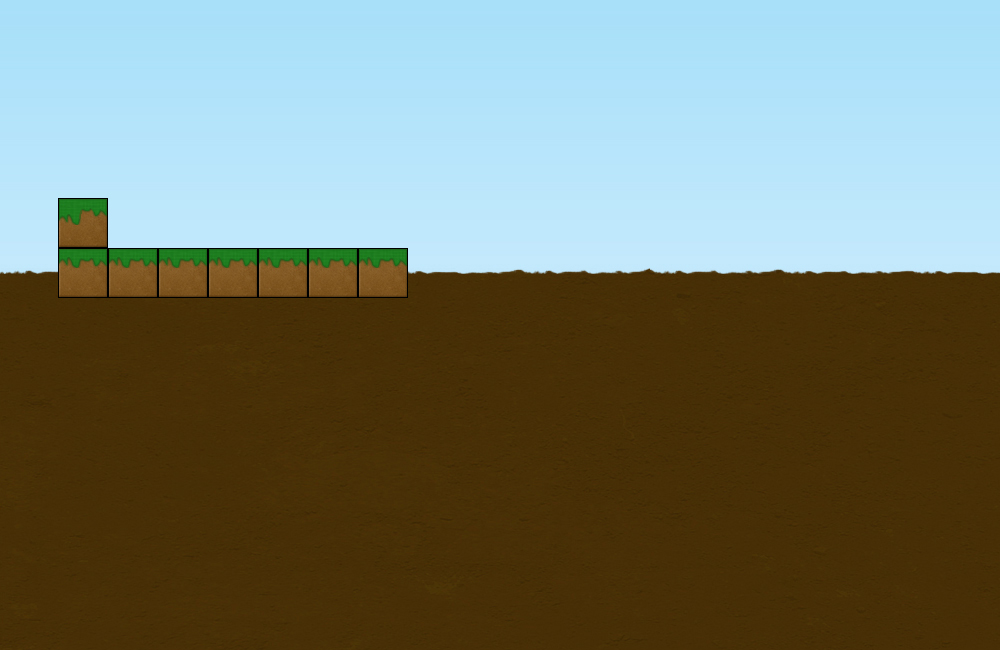
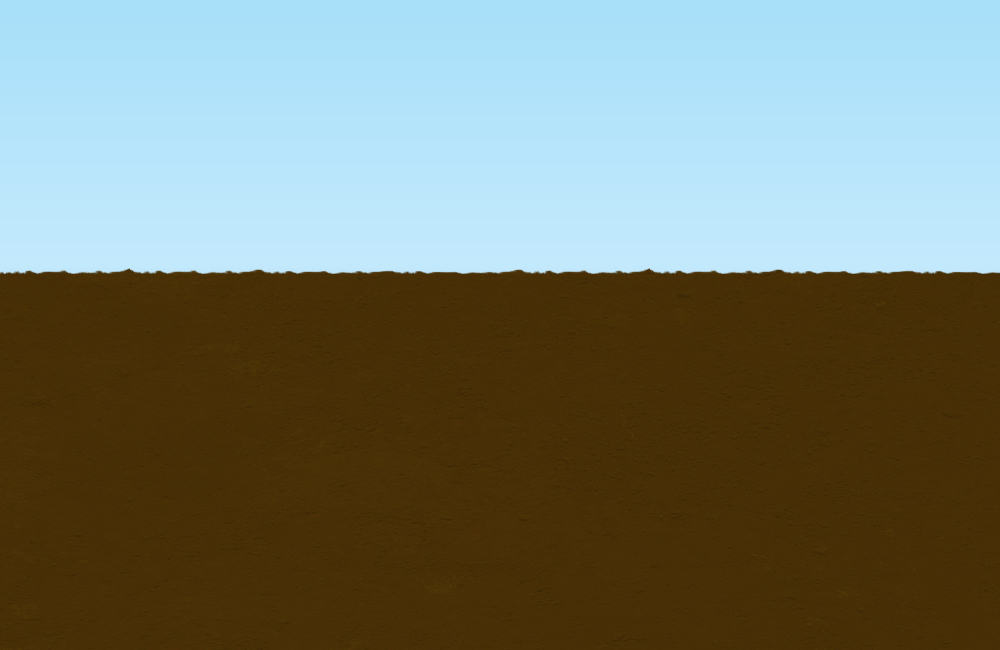
petit fix cocci / personnage / nuages + ajout de la carte

Changed region(s): [[0.031, 0.3077, 0.434, 0.4615]]

diff --git a/src/game/components/Carte.java b/src/game/components/Carte.java
@@ -1,0 +1,40 @@
+package game.components;
+
+import managers.RessourcesManager;
+
+public class Carte {
+
+	private String [][] matrice;
+
+	public Carte (String str){
+		matrice = new String[20+2][13+2];
+
+		String rows [] = str.split("'");
+		for (int j=1;j<rows.length;j++){
+			String columns [] = rows[j].split("\t");
+			for (int i=1;i<columns.length;i++){
+				if (columns[i].startsWith("TH"))
+					matrice[i][j]="BL_TH";
+				else if (columns[i].startsWith("T"))
+					matrice[i][j]="BL_T";
+				else if (columns[i].startsWith("RN"))
+					matrice[i][j]="BL_RN";
+				else if (columns[i].startsWith("R"))
+					matrice[i][j]="BL_R";
+			}
+		}
+	}
+
+	public void render(RessourcesManager rm){
+		for (int i=1;i<20+2;i++){
+			for (int j=1;j<13+2;j++){
+				if (matrice[i][j] != null){
+					rm.getImage(matrice[i][j]).draw((i-1)*50, (j-1)*50);
+				}
+			}
+		}
+	}
+
+
+
+}

diff --git a/src/game/elements/Coccinelle.java b/src/game/elements/Coccinelle.java
@@ -2,17 +2,17 @@ package game.elements;
 
 import org.newdawn.slick.Image;
 
+import game.components.Personnage;
 import game.elements.interfaces.Activable;
 import game.elements.interfaces.Deletable;
-import game.personnage.Personnage;
 import managers.RessourcesManager;
 
 public class Coccinelle extends Element implements Activable, Deletable {
 
 	private int part = 0;
 	
-	private float x = 44f;
-	private float y = 188f;
+	private float x = 37f;
+	private float y = 190f;
 	
 	private float angle = 0;
 
@@ -30,9 +30,9 @@ public class Coccinelle extends Element implements Activable, Deletable {
 	@Override
 	public void update(int d) {
 		x -= d / 7f;
-		y -= d / 15f;
+		y -= d / 10f;
 		
-		angle -= 1.2;
+		angle -= 0.70;
 	}
 	
 	

diff --git a/src/game/components/Personnage.java b/src/game/components/Personnage.java
@@ -1,4 +1,4 @@
-package game.personnage;
+package game.components;
 
 import managers.RessourcesManager;
 
@@ -9,7 +9,7 @@ public class Personnage {
 
 	// Position du personnage.
 	private float x = 200;
-	private float y = 199;
+	private float y = 200;
 	
 	// Image active
 	private String image = "P_S";
@@ -78,5 +78,4 @@ public class Personnage {
 			rm.getImage(image).getScaledCopy(-1*rm.getImage(image).getWidth(),rm.getImage(image).getHeight()).draw((int) x+rm.getImage(image).getHeight(), (int) y);
 		}
 	}
-
 }

diff --git a/src/game/elements/Nuages.java b/src/game/elements/Nuages.java
@@ -69,8 +69,10 @@ public class Nuages extends Element implements Updatable {
 				sequence.remove(0);
 				x0=0;
 			}
-			if (sequence.size() == 0)
+			if (sequence.size() == 0){
 				initSequence();
+				x0=1000;
+			}
 	}	
 
 }
